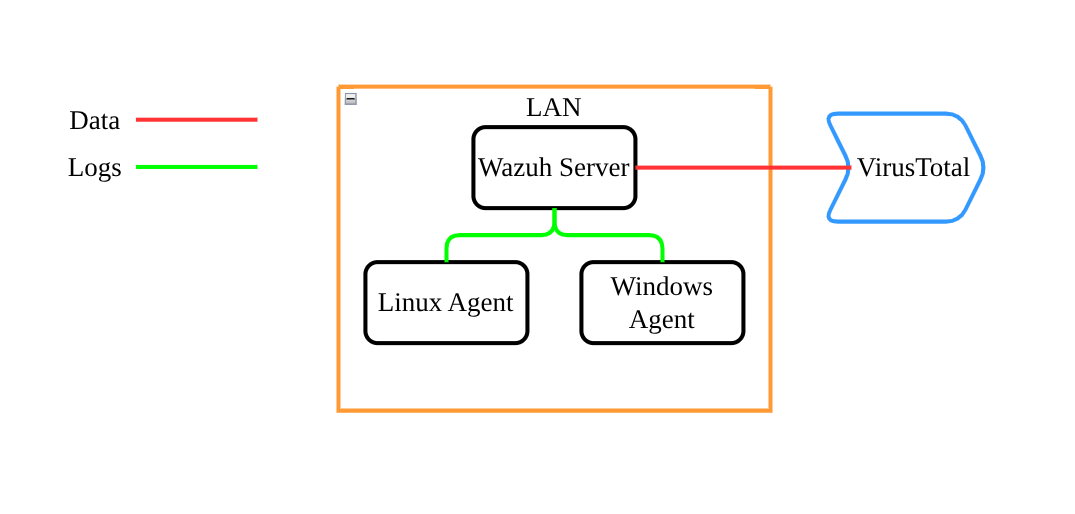
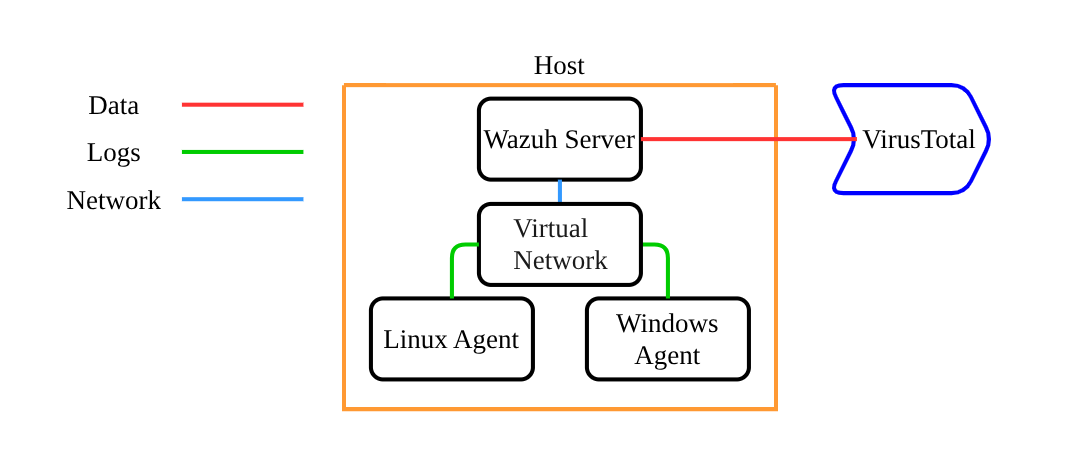
chore: update screenshot docs: update README

diff --git a/README.md b/README.md
@@ -1,11 +1,13 @@
-# Wazuh SIEM Lab
+# 🛡 Wazuh SIEM Lab
 
-## 1. Overview
+## 📖 Overview
+
 This project demonstrates the deployment and configuration using
 the open-source security tool Wazuh SIEM platform,
 virusTotal integration and automation.
 
-## 2. Objectives
+## 🎯 Objectives
+
 - Deploy Wazuh: Manager & Dashboard
 - Set Up Endpoints: Windows 11, Fedora
 - Install Wazuh Server: Kali Linux
@@ -16,33 +18,38 @@ virusTotal integration and automation.
 - Integrate VirusTotal: Malware analysis
 - Automate Response: Delete detected malware
 
-## 3. Architecture
-| Component      | Details          |
-|----------------|------------------|
-| SIEM           | Wazuh            |
-| Agent          | Windows 11       |
-| Agent          | Fedora Linux     |
-| Server         | Kali Linux       |
-| Virtualization | KVM/QEMU         |
-| Network        | Host-only        |
+## 🏗 Lab Architecture
+
+| Component      | Details      |
+| -------------- | ------------ |
+| SIEM           | Wazuh        |
+| Agent          | Windows 11   |
+| Agent          | Fedora Linux |
+| Server         | Kali Linux   |
+| Virtualization | KVM/QEMU     |
+| Network        | Host-only    |
 
 ![lab diagram](https://github.com/lapointek/wazuh-siem-lab/blob/main/screenshots/lab-diagram.png)
 
-## 4. Installation & Configuration
+## ⚙ Installation & Configuration
+
 ### 4.1 Wazuh Server
+
 - Deploy Wazuh in a virtualized environment using KVM/Qemu
 - Create a username and password when prompted
 - Access Wazuh dashboard
 - Install and register endpoint agents
 
 ### 4.2 Log Collection
+
 - Malware
 - File changes
 - Registry changes
 
-## 5. Detection Testing
+## 🚨 Detection Testing
 
 ### Test 1 — Registry Changes
+
 **Objective:** Detect registry changes
 
 **Action:**
@@ -53,7 +60,7 @@ Wazuh File Integrity Monitoring (FIM) showing registry changes
 
 ![registry logs](https://github.com/lapointek/wazuh-siem-lab/blob/main/screenshots/registry-logs.png)
 
-## 6. Incident Response
+## 🕵 Incident Response
 
 1. Identify affected endpoint
 2. Investigate the activity
@@ -62,4 +69,4 @@ Wazuh File Integrity Monitoring (FIM) showing registry changes
 5. Recover
 6. Document findings
 
-## 7. Conclusion
+## 🏁 Conclusion
